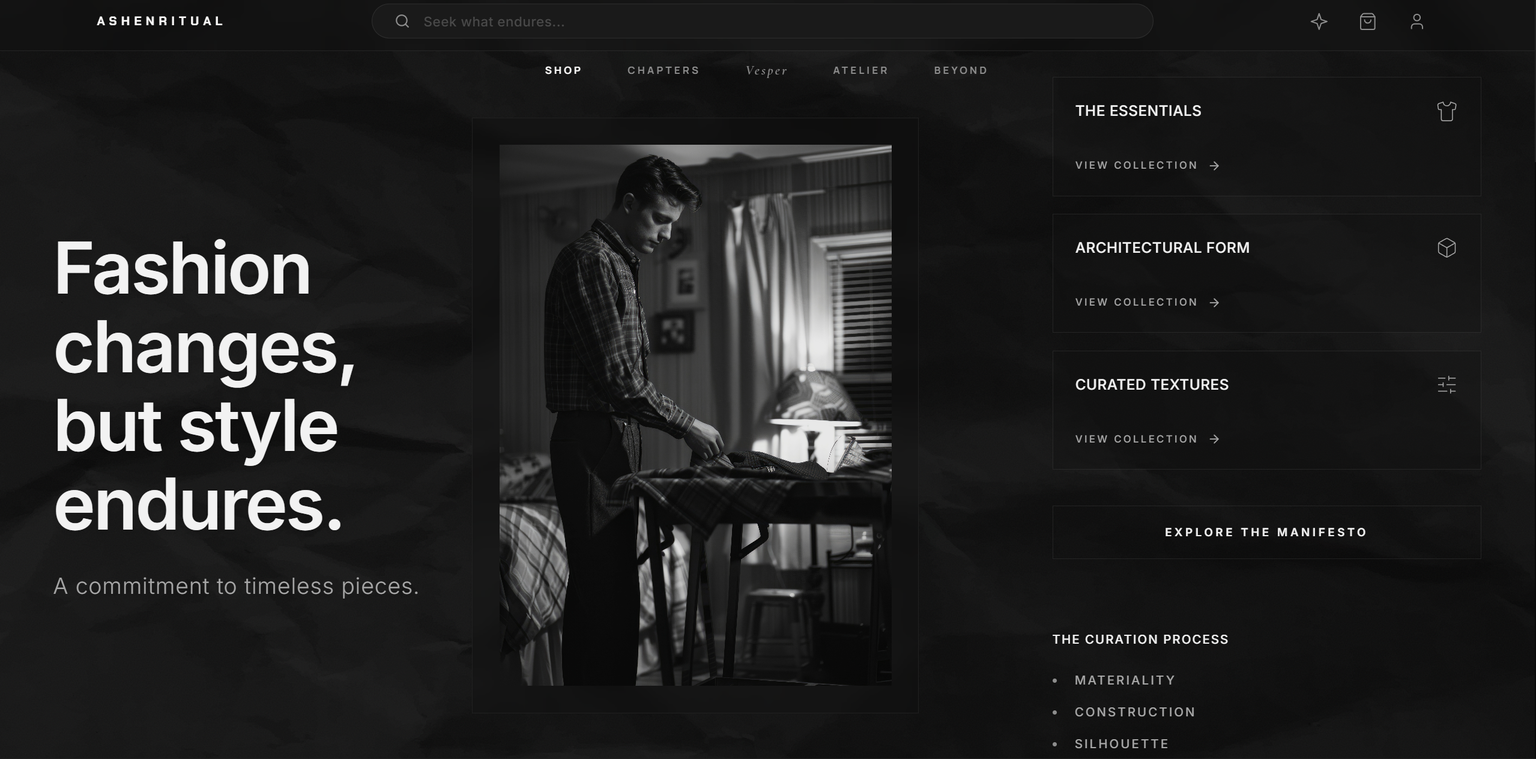
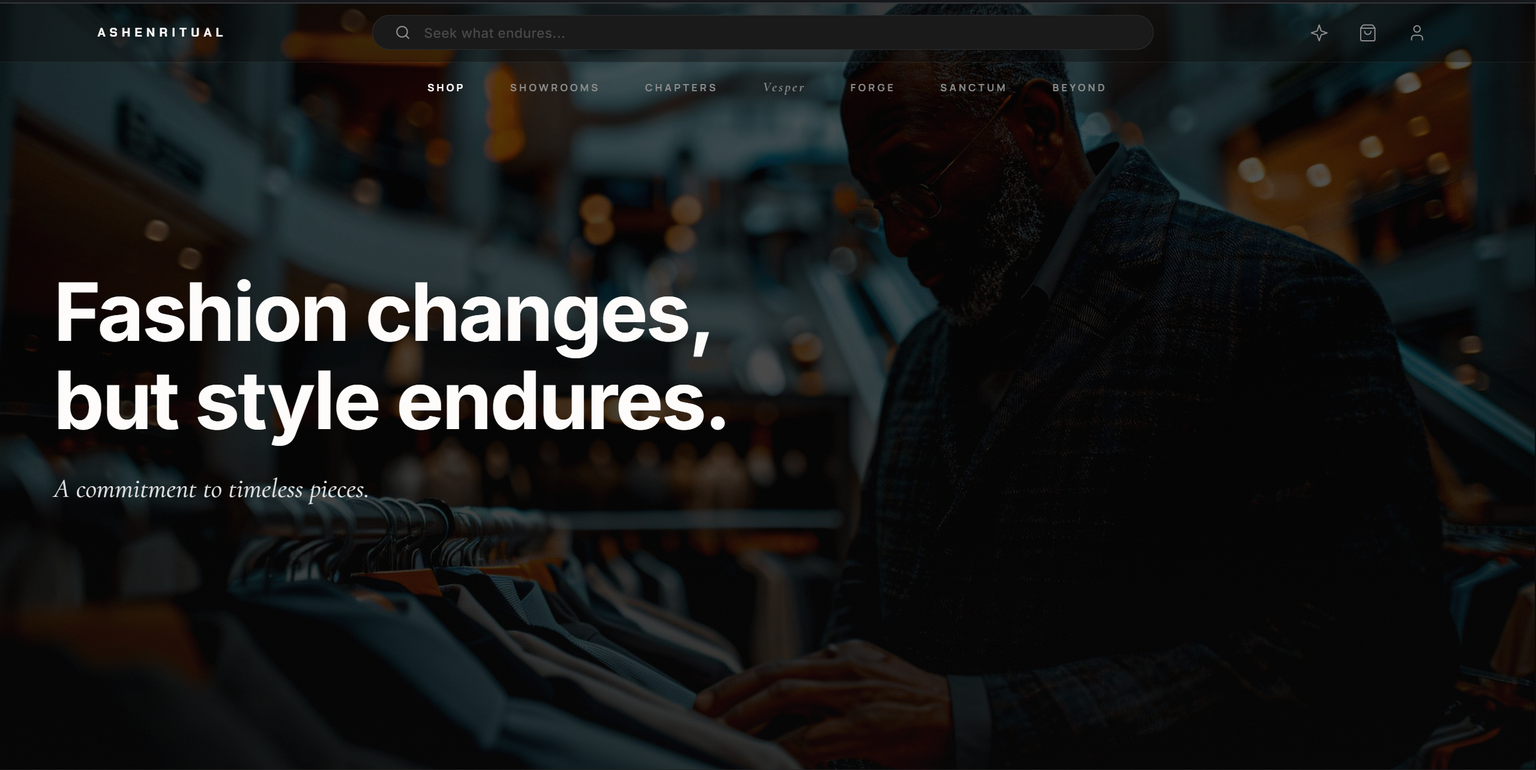
Update README hero images to match new assets and fix case sensitivity

diff --git a/README.md b/README.md
@@ -5,13 +5,19 @@
 <br />
 
 <div align="center">
-  <img src=".github/assets/shop.png" alt="Shop Interface" width="100%" />
+  <img src=".github/assets/Shop.png" alt="Shop Interface" width="100%" />
 </div>
 
 <br />
 
 <div align="center">
-  <img src=".github/assets/forge.png" alt="Forge Layout" width="49%" />
+  <img src=".github/assets/Exhibition.png" alt="Exhibition Gallery" width="100%" />
+</div>
+
+<br />
+
+<div align="center">
+  <img src=".github/assets/Forge.png" alt="Forge Layout" width="49%" />
   <img src=".github/assets/beyond.png" alt="Editorial Beyond Section" width="49%" />
 </div>
 
